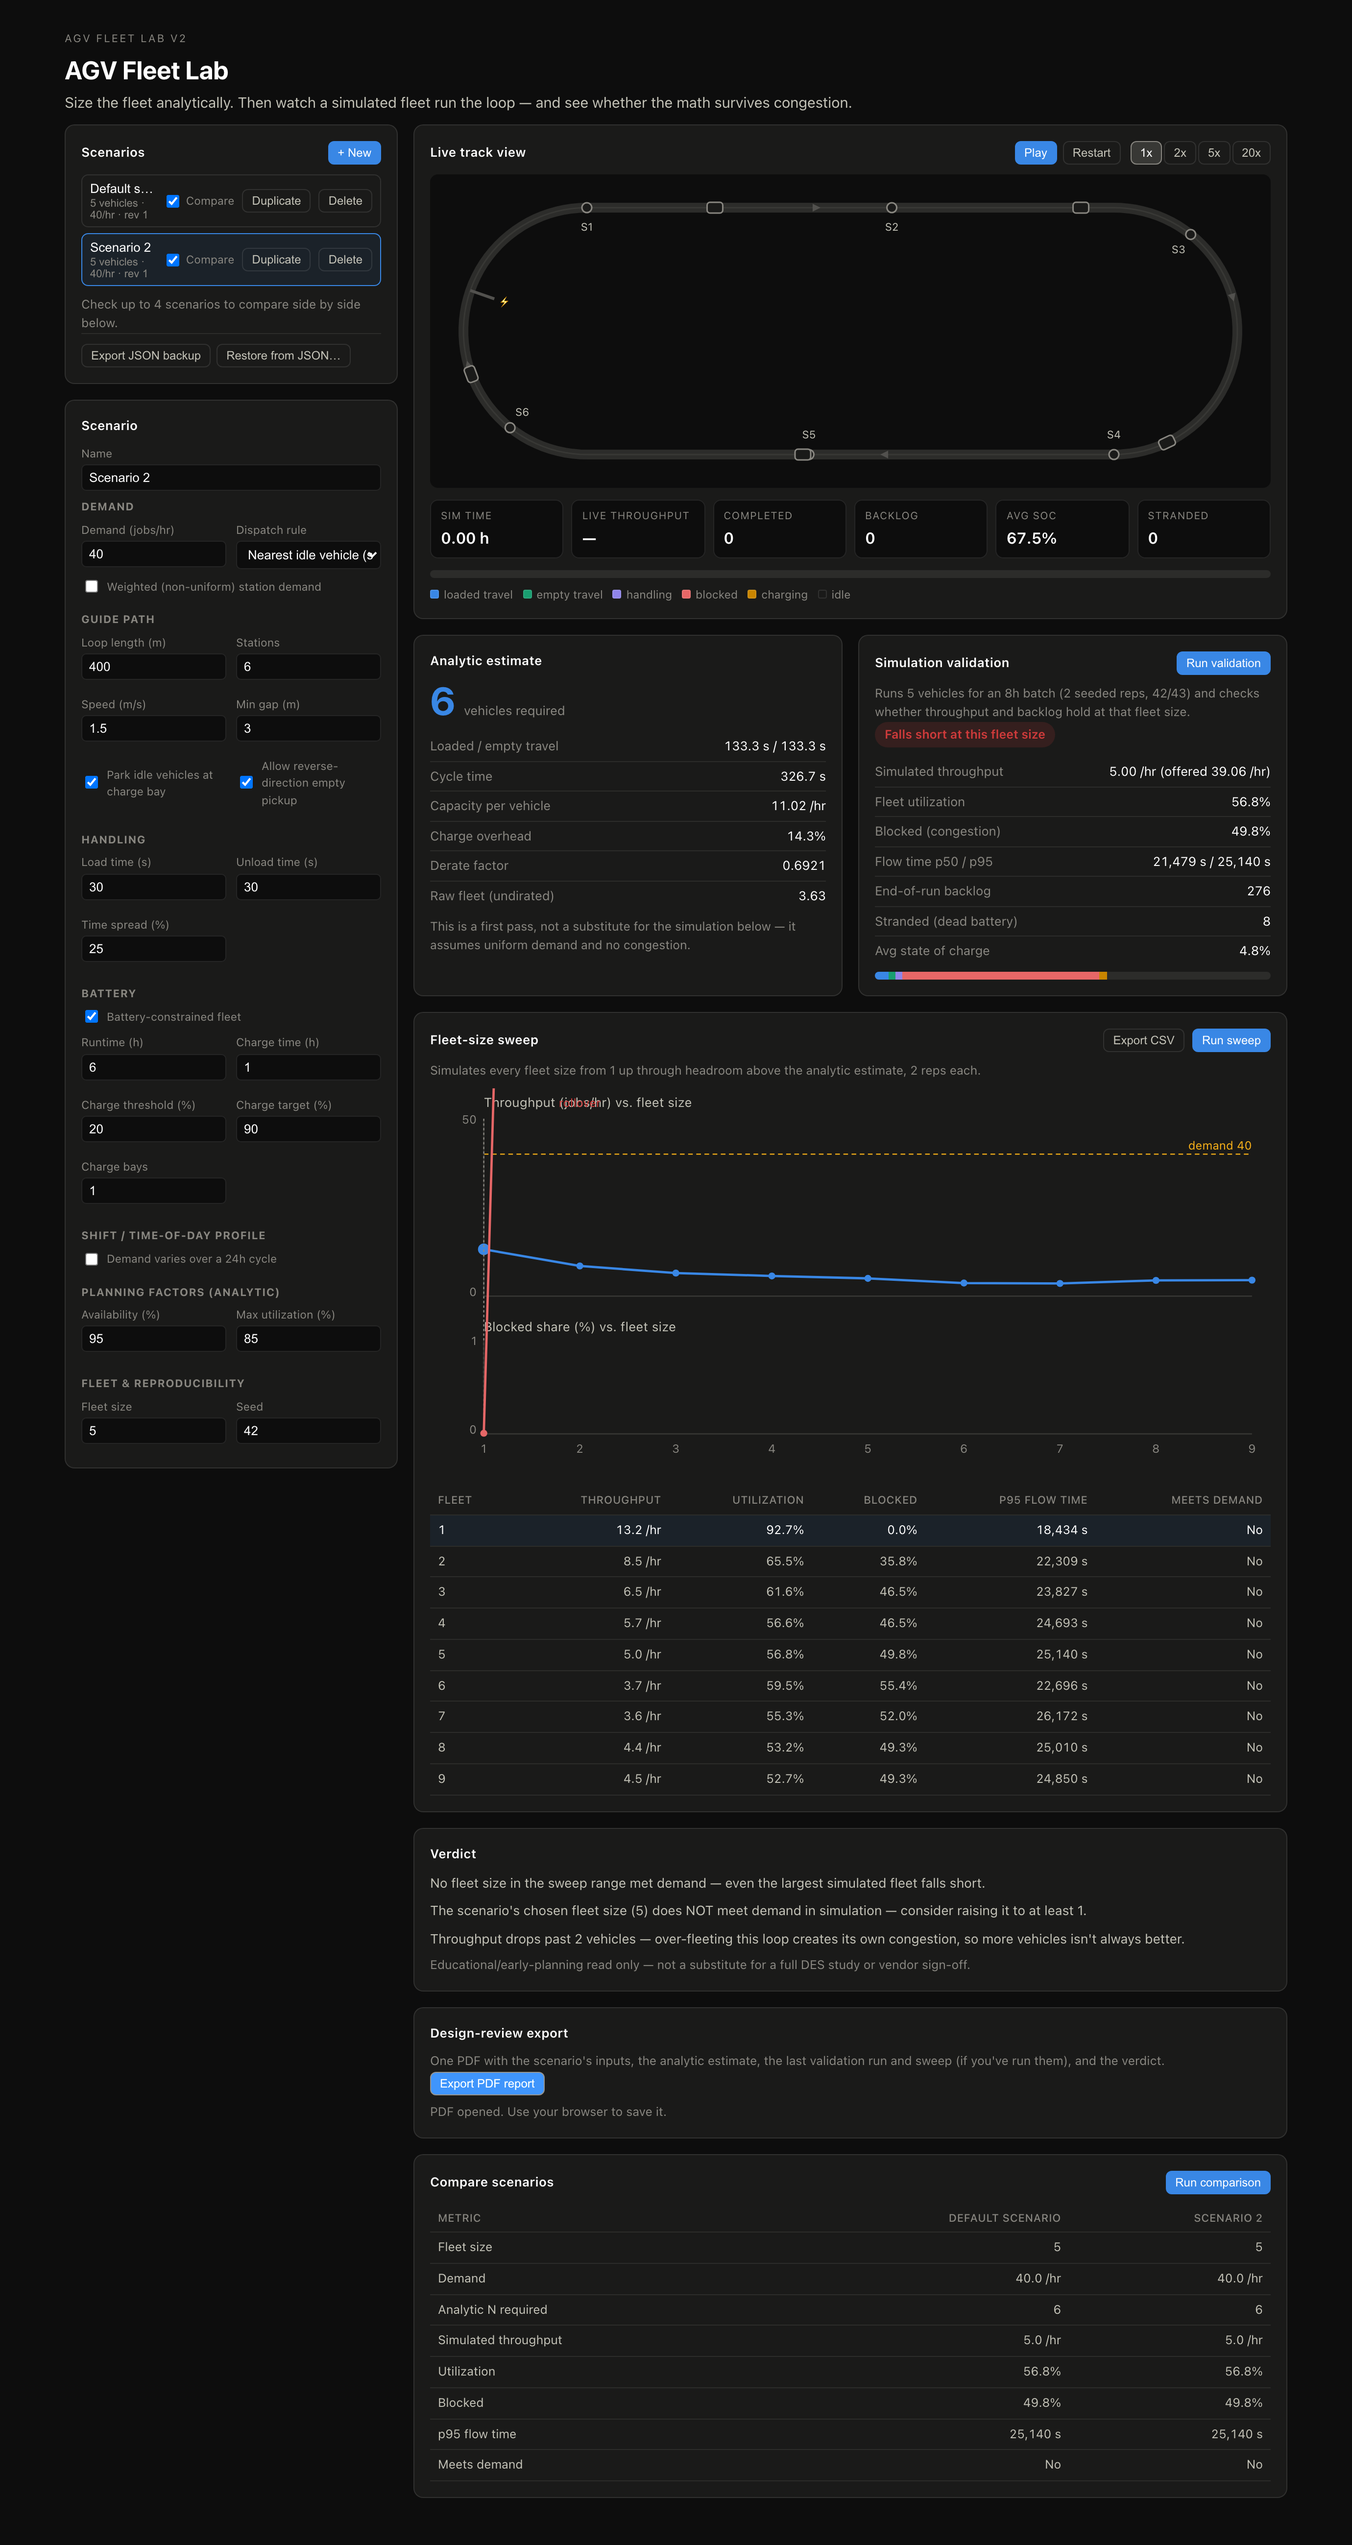
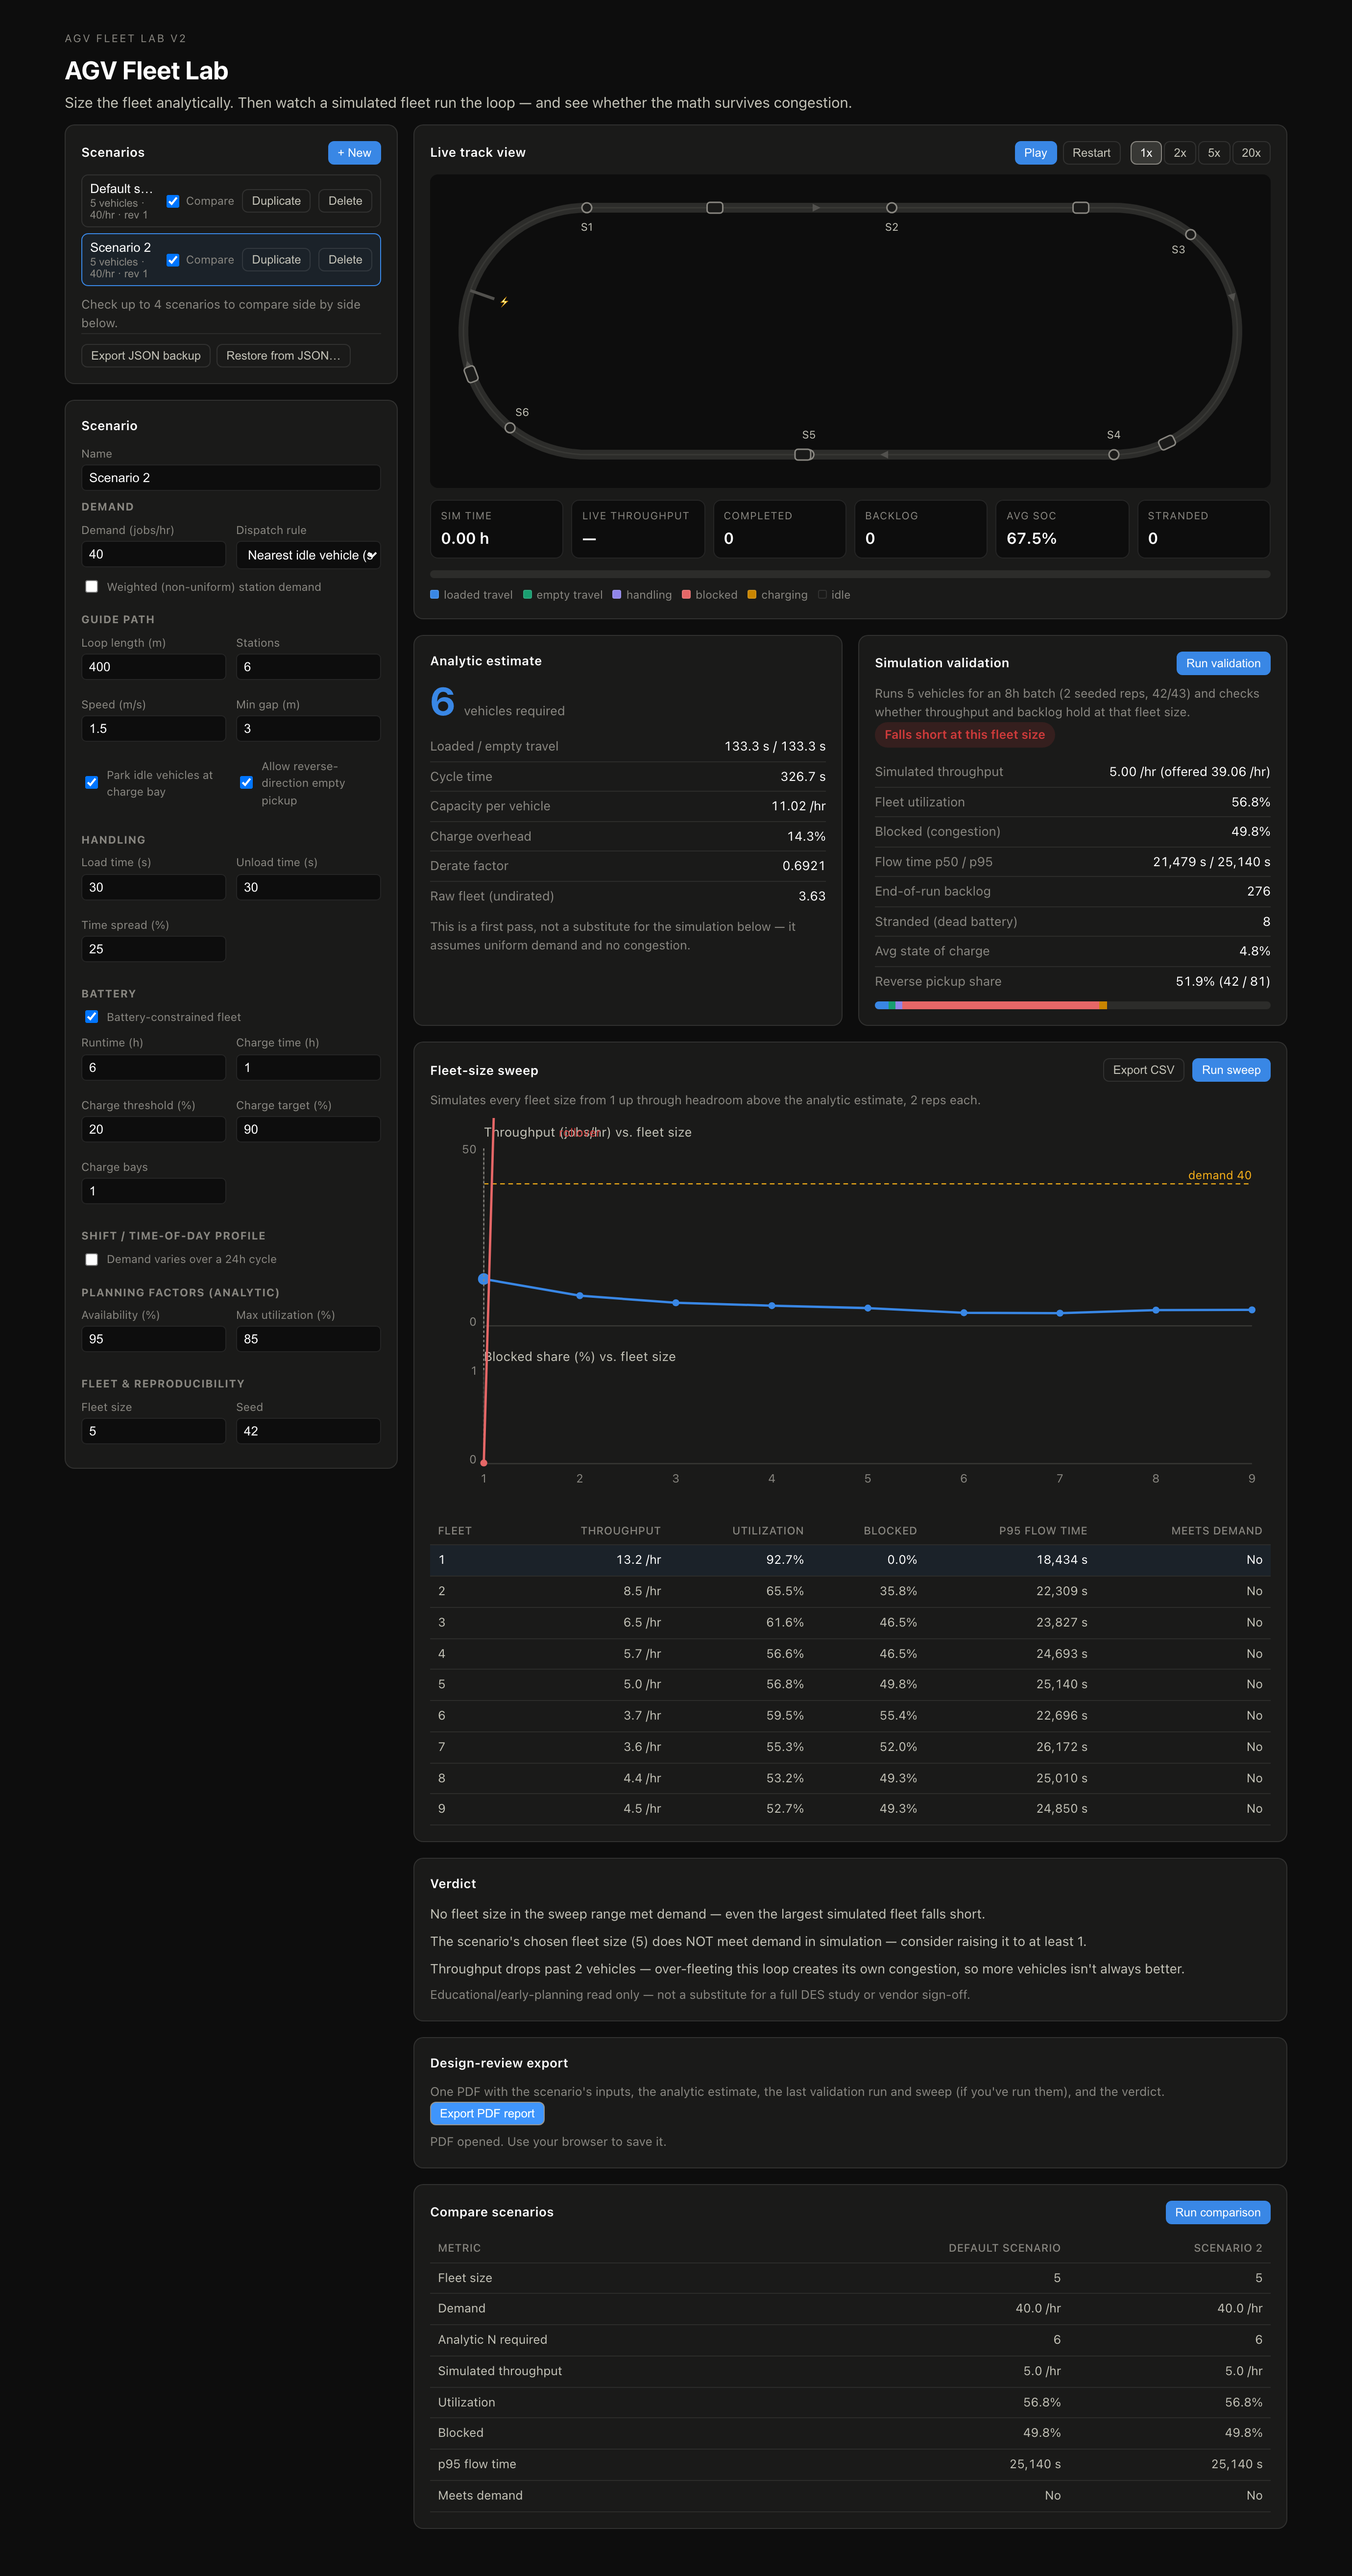
Surface reverse-pickup share in ValidateCard and PDF report
Adds a 'Reverse pickup share' row to the simulation validation card,
showing the percentage plus the X / Y counts so reviewers can see
the magnitude (and judge whether the share is signal or noise at low
pickup counts). Adds the same row to the PDF design-review simulation
validation table.

Refreshes verify screenshots.

diff --git a/src/components/results/ValidateCard.tsx b/src/components/results/ValidateCard.tsx
@@ -67,6 +67,12 @@ export function ValidateCard({ params, status, result, onRun }: ValidateCardProp
               <dt>Avg state of charge</dt>
               <dd>{fmtPercent(result.avgSoc)}</dd>
             </div>
+            <div className="stat-list__row">
+              <dt>Reverse pickup share</dt>
+              <dd>
+                {fmtPercent(result.reversePickupShare * 100)} ({result.reversePickups} / {result.pickupsObserved})
+              </dd>
+            </div>
           </dl>
           <div className="simview__bucketbar" aria-hidden="true">
             {BUCKETS.map((b) => (

diff --git a/src/lib/pdfReport.ts b/src/lib/pdfReport.ts
@@ -176,6 +176,7 @@ export function buildDesignReviewPdf(data: DesignReviewData): Blob {
       ['End-of-run backlog', fmtNum(validate.backlog)],
       ['Stranded (dead battery)', fmtNum(validate.stranded)],
       ['Avg state of charge', fmtPercent(validate.avgSoc)],
+      ['Reverse pickup share', `${fmtPercent(validate.reversePickupShare * 100)} (${validate.reversePickups} / ${validate.pickupsObserved})`],
       ['Meets demand', validate.met ? 'Yes' : 'No'],
     ])
     y = lastTableY(doc) + 22
